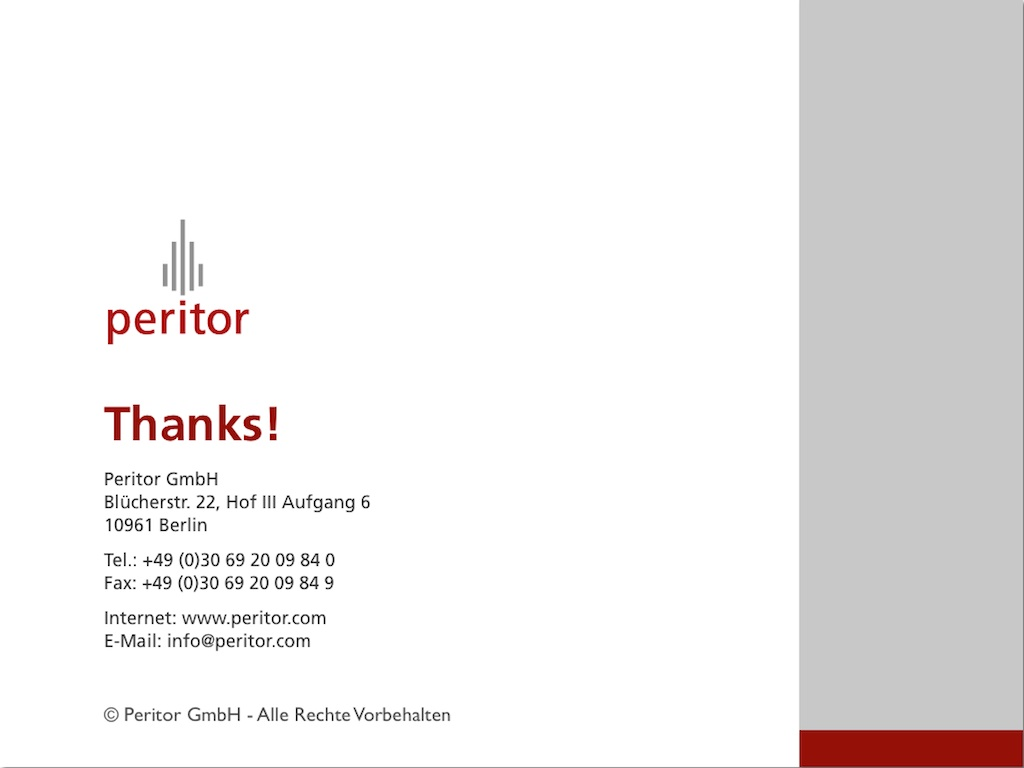
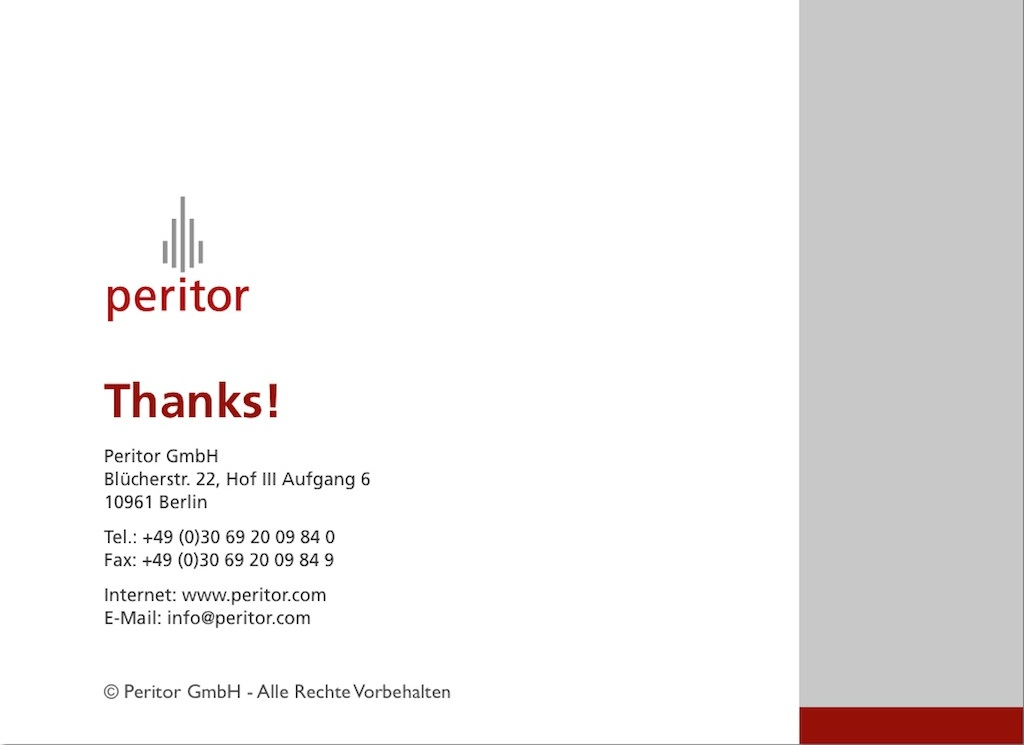
Changed outro image a tiny bit to fit better.

diff --git a/05_outro/05_outro.md b/05_outro/05_outro.md
@@ -1,3 +1,3 @@
-!SLIDE center
+!SLIDE fullscreen center
 
 ![Thanks](fin.jpg)
